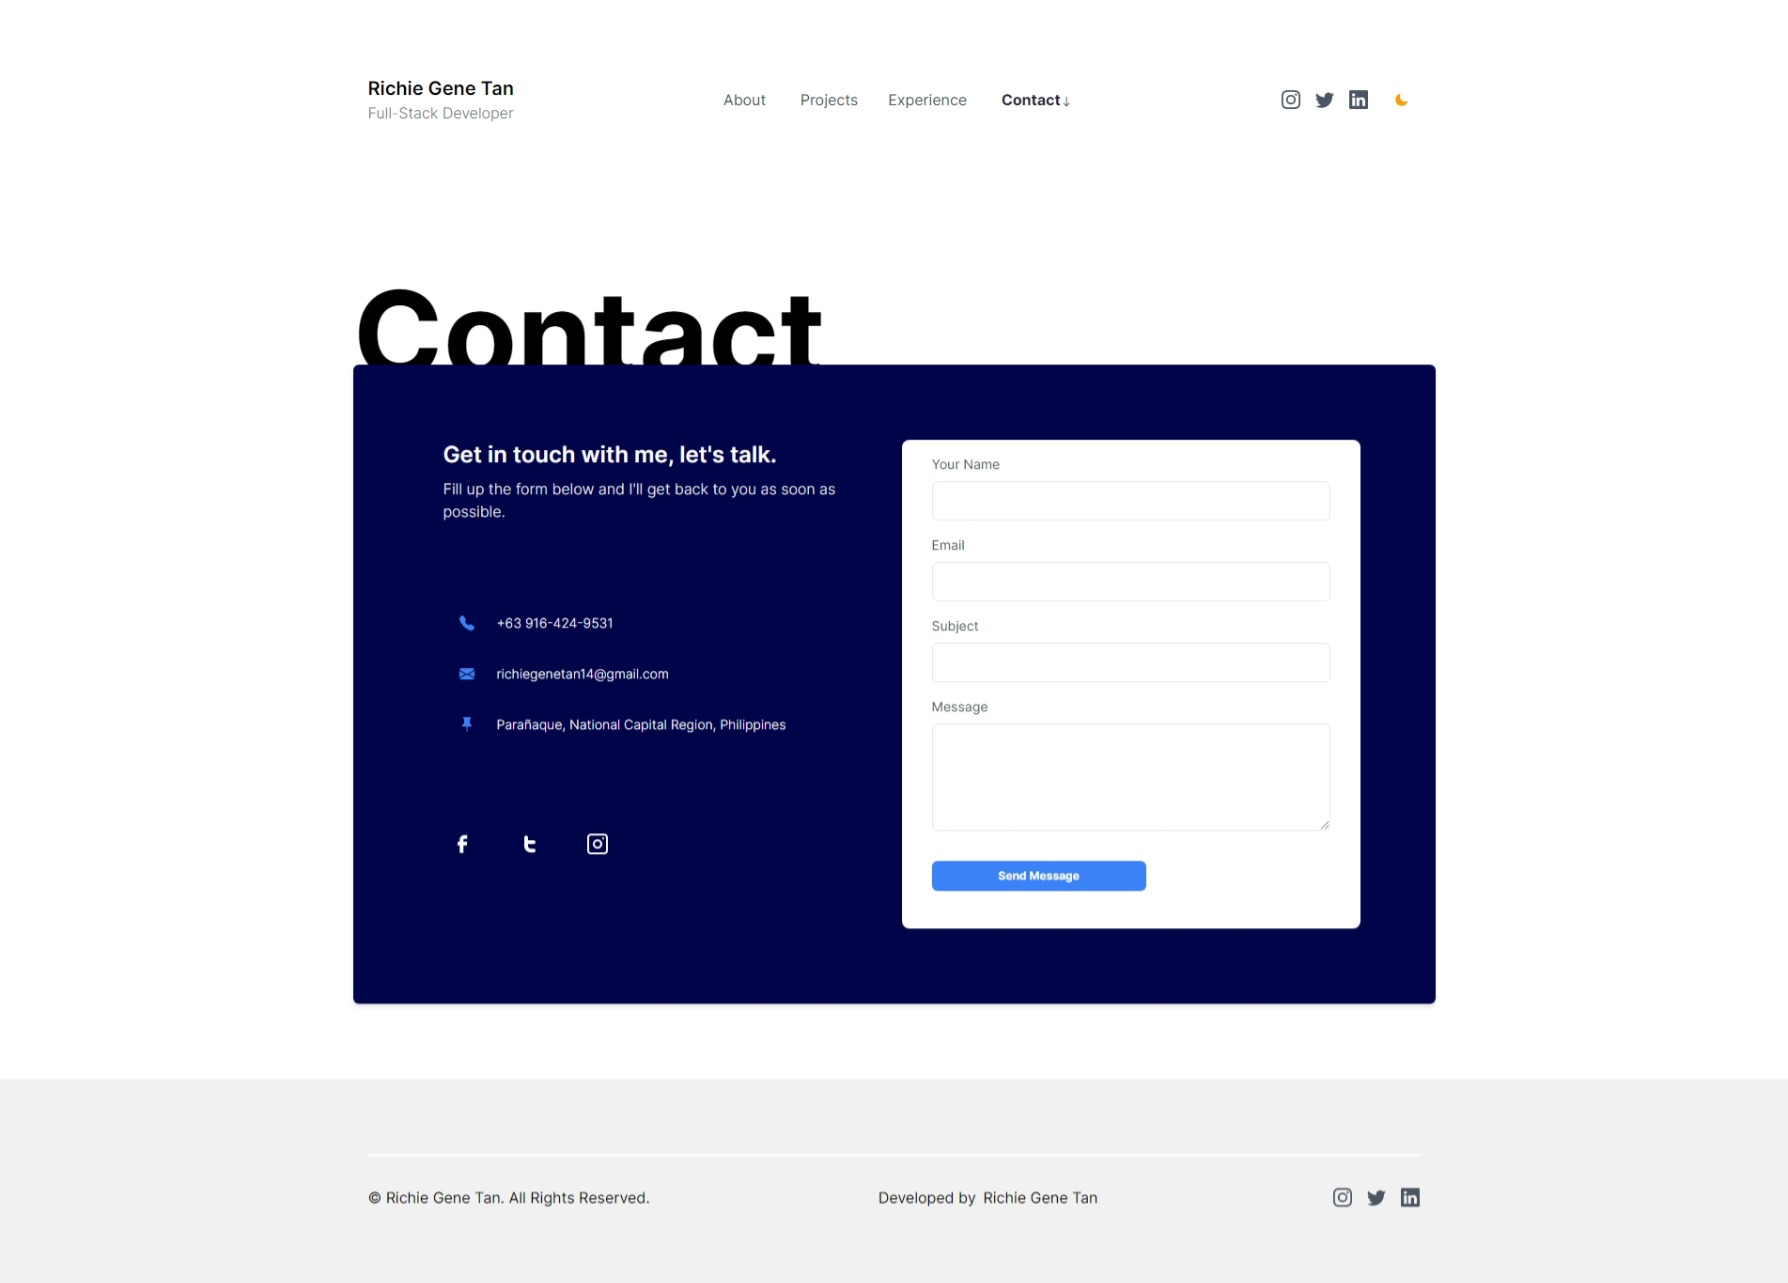
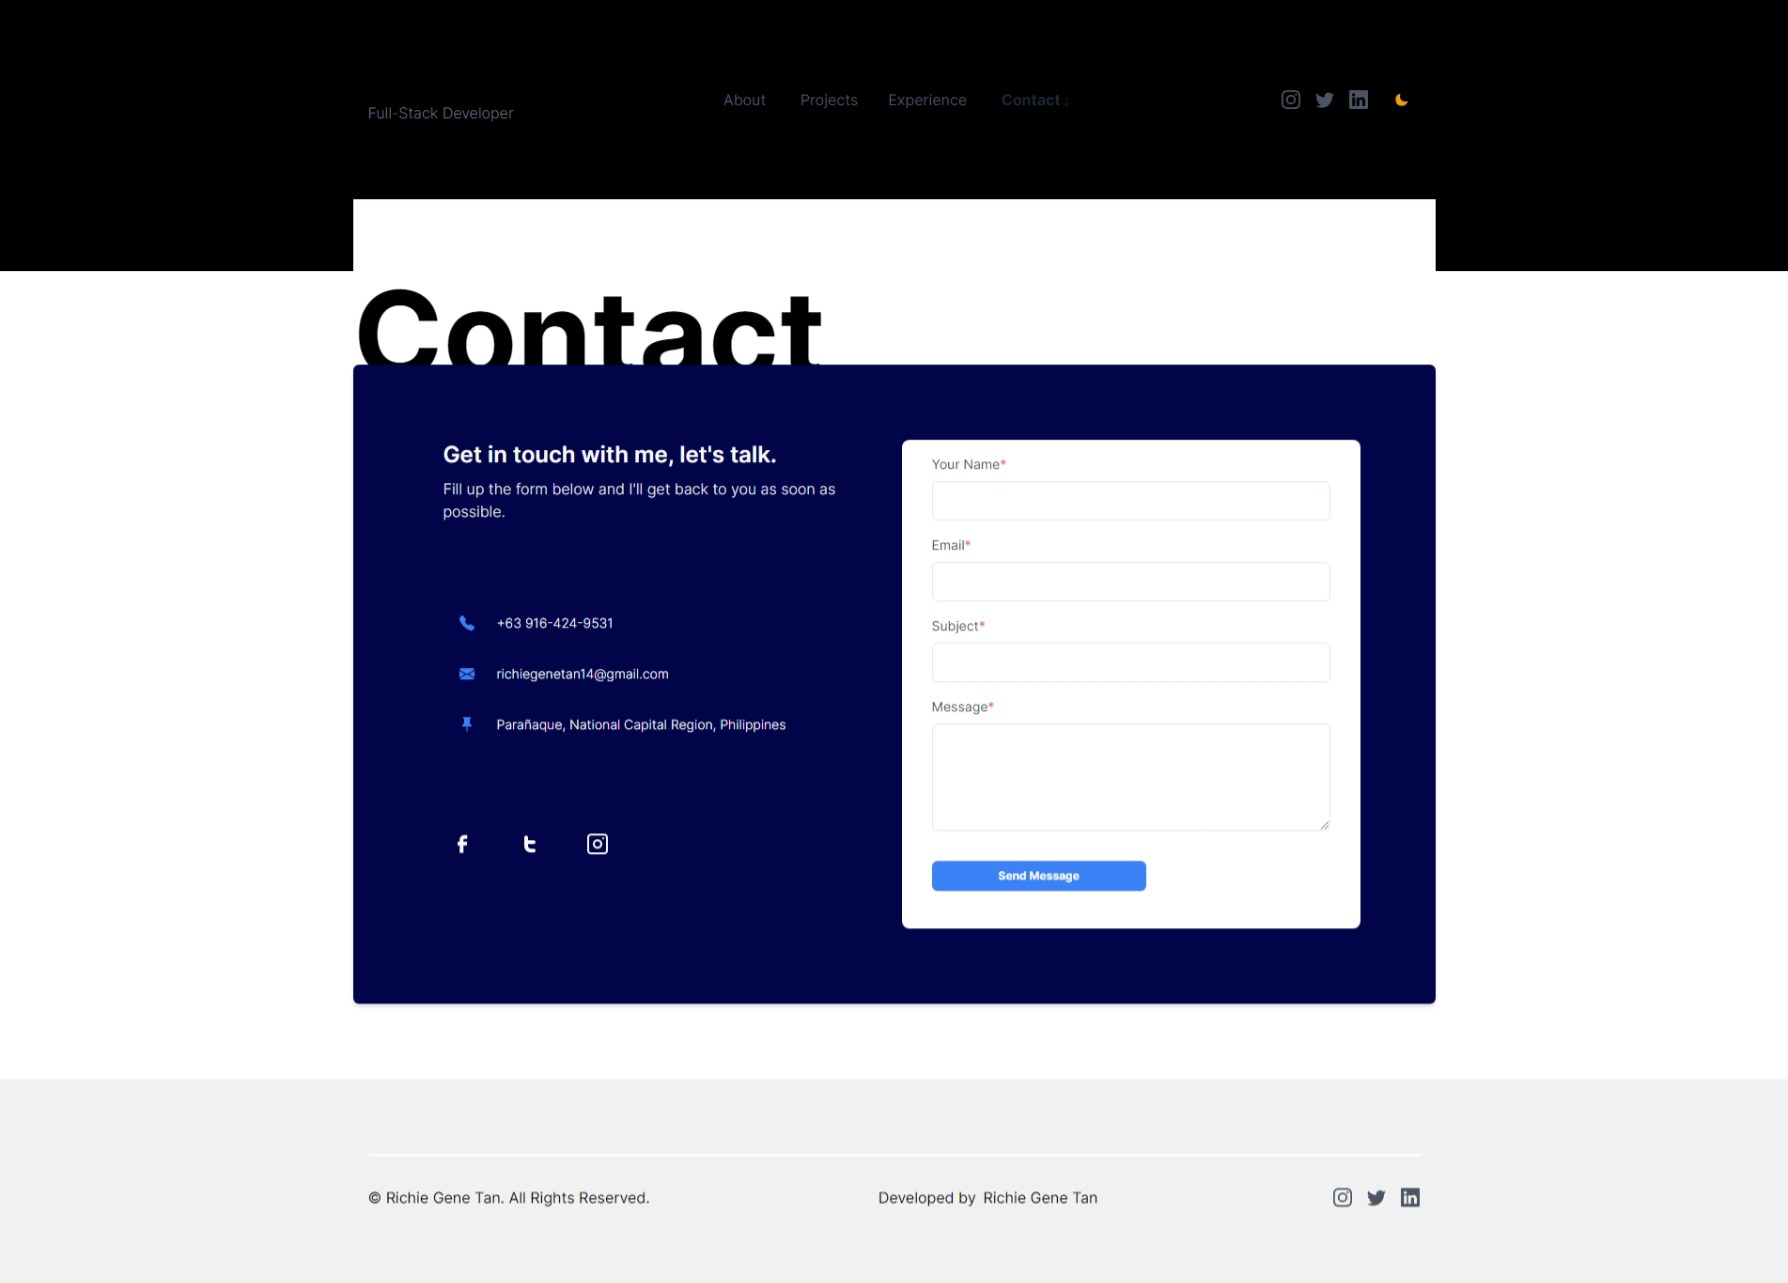
Added Red Asterisk at Contact Page and Replace Contact Image in demo-website

Changed region(s): [[0.0, 0.0, 1.0, 0.2182]]

diff --git a/components/Contact.js b/components/Contact.js
@@ -243,7 +243,7 @@ export default function Contact() {
           </div>
           <form onSubmit={handleOnSubmit} className="form rounded-lg bg-white p-4 flex flex-col">
             <label htmlFor="name" className="text-sm text-gray-600 mx-4">
-              Your Name
+              Your Name<span className="text-red-500">*</span>
             </label>
             <input
               type="text"
@@ -256,7 +256,7 @@ export default function Contact() {
             <p className="text-red-500">Name cannot be empty.</p>
             )}
             <label htmlFor="email" className="text-sm text-gray-600 mx-4 mt-4">
-              Email
+              Email<span className="text-red-500">*</span>
             </label>
             <input
               type="email"
@@ -269,7 +269,7 @@ export default function Contact() {
             <p className="text-red-500">Email cannot be empty.</p>
             )}
             <label htmlFor="subject" className="text-sm text-gray-600 mx-4 mt-4">
-              Subject
+              Subject<span className="text-red-500">*</span>
             </label>
             <input
               type="subject"
@@ -285,7 +285,7 @@ export default function Contact() {
               htmlFor="message"
               className="text-sm text-gray-600 mx-4 mt-4"
             >
-              Message
+              Message<span className="text-red-500">*</span>
             </label>
             <textarea
               rows="4"
